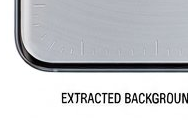
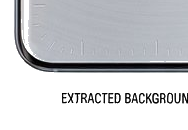
Fix: transparent knob bg, max-width 500px for desktop, constrained layout

diff --git a/lib/screens/home_screen.dart b/lib/screens/home_screen.dart
@@ -204,14 +204,18 @@ class _HomeScreenState extends State<HomeScreen> with TickerProviderStateMixin {
     final darkGold = const Color(0xFF6B5530);
 
     return Scaffold(
-      body: Stack(
-        fit: StackFit.expand,
-        children: [
-          // Layer 1: Frosted glass background
-          Image.asset('assets/images/bg_phone.png', fit: BoxFit.cover),
+      backgroundColor: const Color(0xFFD0D0D0),
+      body: Center(
+        child: ConstrainedBox(
+          constraints: const BoxConstraints(maxWidth: 500),
+          child: Stack(
+            fit: StackFit.expand,
+            children: [
+              // Layer 1: Frosted glass background
+              Image.asset('assets/images/bg_phone.png', fit: BoxFit.cover),
 
-          // Layer 2: All content
-          SafeArea(
+              // Layer 2: All content
+              SafeArea(
             child: Column(
               children: [
                 // HEADER ROW
@@ -349,6 +353,8 @@ class _HomeScreenState extends State<HomeScreen> with TickerProviderStateMixin {
             ),
           ),
         ],
+      ),
+        ),
       ),
     );
   }